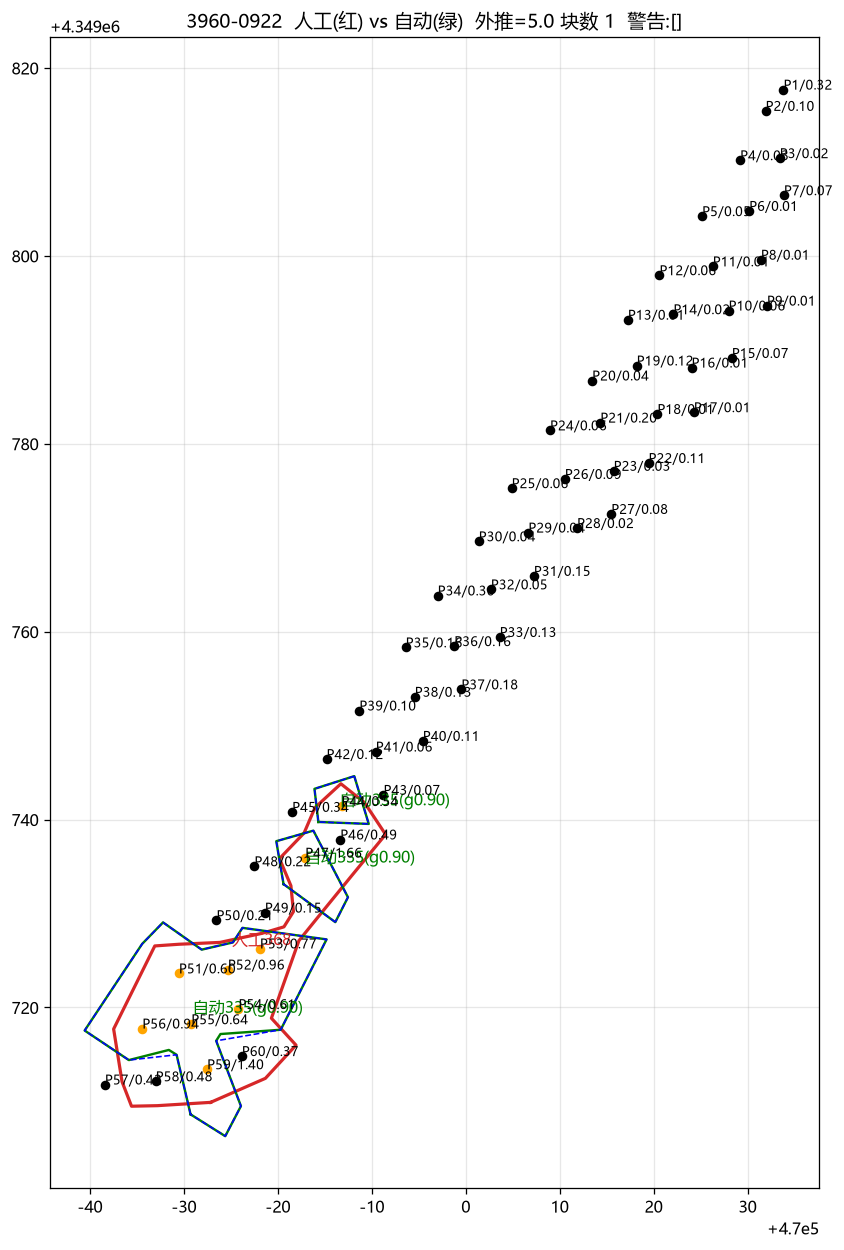
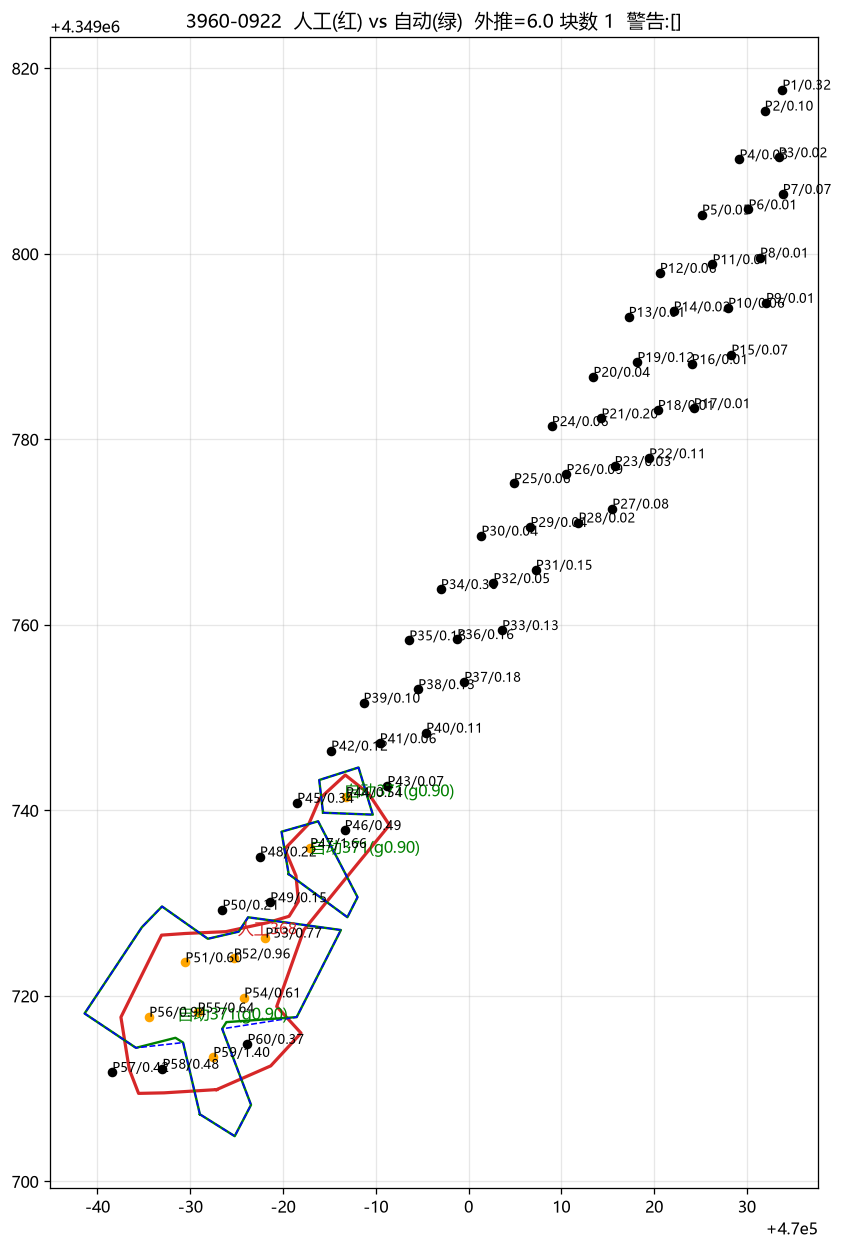
client/gui: 参数区修好——'存为该平台默认'原来写成 platforms[日期](不生效)，现在按平台/炮区分开写；参数补 seam_join_m/isolated_min_holes/ring_alpha_k + 精确模式轮廓文件框(带多选按钮)；probe: 3960 形状对账(0922/1007 面积与体积都对、低 IoU 是手画哑铃形与孔簇领地的固有差)

diff --git a/3DMine二次圈矿工具_初步原型/client/gui.py b/3DMine二次圈矿工具_初步原型/client/gui.py
@@ -86,22 +86,36 @@ class App:
         tk.Button(row3, text="浏览...", command=self.browse_out).pack(side="left", padx=4)
 
         # ---- 参数区（按平台可覆盖，存 圈矿参数.json）----
-        pf = tk.LabelFrame(root, text="参数（留空=用默认；改完点“存为当前平台”）",
+        pf = tk.LabelFrame(root, text="参数（留空=用默认；改完点“存为该平台默认”或“存为该炮区”）",
                            padx=10, pady=6)
         pf.pack(fill="x", padx=10, pady=(0, 4))
         self.var_p = {}
-        for i, (key, label) in enumerate((("extrude_m", "外推(m)"),
-                                          ("zone_link_m", "连接半径(m)"),
-                                          ("min_fragment_m2", "最小块段(m²)"),
-                                          ("merge_gap_m", "接综合图(m)"))):
-            tk.Label(pf, text=label).grid(row=0, column=i * 2, sticky="e", padx=(6, 2))
+        NUMS = (("extrude_m", "外推(m)"), ("zone_link_m", "连接半径(m)"),
+                ("min_fragment_m2", "最小块段(m²)"), ("merge_gap_m", "接综合图(m)"),
+                ("seam_join_m", "贴合综合图(m)"), ("isolated_min_holes", "孤立组最少孔数"),
+                ("ring_alpha_k", "外轮廓兜底k"))
+        for i, (key, label) in enumerate(NUMS):
+            r, c = divmod(i, 4)
+            tk.Label(pf, text=label).grid(row=r * 2, column=c * 2, sticky="e", padx=(6, 2))
             v = tk.StringVar()
-            tk.Entry(pf, textvariable=v, width=7).grid(row=0, column=i * 2 + 1, sticky="w")
+            tk.Entry(pf, textvariable=v, width=7).grid(row=r * 2, column=c * 2 + 1, sticky="w")
             self.var_p[key] = v
-        tk.Button(pf, text="存为当前平台", command=self.save_params).grid(
+        tk.Label(pf, text="精确模式轮廓文件(.3ds，多个用分号隔开；填了就照人工画的矿界出图)",
+                 fg="#333").grid(row=4, column=0, columnspan=2, sticky="e", pady=(6, 0))
+        self.var_outline = tk.StringVar()
+        tk.Entry(pf, textvariable=self.var_outline).grid(
+            row=4, column=2, columnspan=6, sticky="we", pady=(6, 0))
+        tk.Button(pf, text="…", width=3,
+                  command=self.browse_outline).grid(row=4, column=8, padx=10)
+        tk.Button(pf, text="存为该平台默认", command=self.save_params).grid(
             row=0, column=8, padx=10)
-        tk.Label(pf, text="（外推 3.0 / 连接 15 / 最小块段 40 / 接图 8；1003 已单独设 2.5）",
-                 fg="#666").grid(row=1, column=0, columnspan=8, sticky="w", pady=(4, 0))
+        tk.Button(pf, text="存为该炮区", command=lambda: self.save_params(blast=True)).grid(
+            row=1, column=8, padx=10)
+        tk.Button(pf, text="刷新参数", command=self.refresh_params).grid(
+            row=2, column=8, padx=10)
+        tk.Label(pf, text="（默认 外推3.0 / 连接15 / 最小块段40 / 接图8 / 贴合0.5；"
+                          "1003 外推 2.5，各炮区另有个别覆盖）",
+                 fg="#666").grid(row=5, column=0, columnspan=8, sticky="w", pady=(4, 0))
 
         # ---- 按钮 ----
         btn = tk.Frame(root)
@@ -155,34 +169,62 @@ class App:
     def refresh_params(self):
         try:
             p = self._params_mod()
+            plat = self.var_platform.get().strip()
             date = self.var_date.get().strip() or ""
-            P = p.for_blast(date) if date else p.load()
+            if date and plat:
+                P = p.for_blast(date, platform=plat)
+            elif plat:
+                P = p.for_platform(plat)
+            else:
+                P = p.load()
             for k, v in self.var_p.items():
-                v.set("%g" % float(P.get(k, 0.0)))
+                val = P.get(k)
+                v.set("" if val is None else ("%g" % float(val)))
+            files = P.get("outline_files") or []
+            self.var_outline.set(";".join(str(x) for x in files))
         except Exception:
             pass
 
-    def save_params(self):
+    def save_params(self, blast: bool = False):
+        """把参数区写回 圈矿参数.json。
+
+        坑（2026-10-14 修）：原来一律写进 `platforms[<日期>]`（拿日期当平台号），
+        存完根本不生效（`for_blast` 查的是 `platforms[<平台号>]` 和 `blasts[<平台>-<日期>]`）。
+        现在：勾"存为该炮区"→ `blasts["<平台>-<日期>"]`；否则 → `platforms[<平台>]`；
+        没有平台号就写全局默认。
+        """
         try:
             p = self._params_mod()
             cfg = p.load()
+            plat = self.var_platform.get().strip()
             date = self.var_date.get().strip()
             vals = {}
             for k, v in self.var_p.items():
                 s = v.get().strip()
                 if s:
-                    vals[k] = float(s)
+                    vals[k] = (int(float(s)) if k == "isolated_min_holes"
+                               else float(s))
+            files = [x.strip() for x in self.var_outline.get().split(";") if x.strip()]
+            if files or self.var_outline.get().strip() != "":
+                vals["outline_files"] = files
             if not vals:
                 messagebox.showinfo("参数", "没有要保存的值。")
                 return
-            if date:
-                cfg.setdefault("platforms", {}).setdefault(date, {}).update(vals)
-                path = p.save(cfg)
-                messagebox.showinfo("参数", "已按平台 %s 保存到：\n%s" % (date, path))
+            if blast:
+                if not (plat and date):
+                    messagebox.showinfo("参数", "存为该炮区需要先填平台号和日期。")
+                    return
+                key = "%s-%s" % (plat, date)
+                cfg.setdefault("blasts", {}).setdefault(key, {}).update(vals)
+                where = "炮区 %s" % key
+            elif plat:
+                cfg.setdefault("platforms", {}).setdefault(plat, {}).update(vals)
+                where = "平台 %s" % plat
             else:
                 cfg.update(vals)
-                path = p.save(cfg)
-                messagebox.showinfo("参数", "已保存为全局默认：\n%s" % path)
+                where = "全局默认"
+            path = p.save(cfg)
+            messagebox.showinfo("参数", "已保存为%s：\n%s" % (where, path))
         except Exception as ex:
             messagebox.showerror("参数", "保存失败：%s" % ex)
 
@@ -216,6 +258,14 @@ class App:
             filetypes=[("DWG", "*.dwg"), ("所有文件", "*.*")])
         if f:
             self.var_comp.set(f)
+
+    def browse_outline(self):
+        """精确模式：挑人工从 3DMine 导出的矿界 .3ds（可多选，分号分隔）。"""
+        fs = filedialog.askopenfilenames(
+            title="选择人工导出的矿界 .3ds（可多选：左边界/与综合图边界/右边界/右上边界…）",
+            filetypes=[("3DMine 字符串", "*.3ds"), ("所有文件", "*.*")])
+        if fs:
+            self.var_outline.set(";".join(str(x) for x in fs))
 
     def browse_out(self):
         d = filedialog.askdirectory(title="选择输出目录")

diff --git a/Excel处理工具/src/daily_merge/report_xlsx.py b/Excel处理工具/src/daily_merge/report_xlsx.py
@@ -17,9 +17,10 @@ from typing import Any
 from openpyxl import load_workbook
 from openpyxl.formula.translate import Translator
 
-from .schema import KINDS, REPORT_TOTAL_TOKEN, REPORT_TYPE_COLUMN
+from .schema import (KINDS, REPORT_SUBTOTAL_TOKENS, REPORT_TOTAL_TOKEN,
+                     REPORT_TOTAL_TOKENS, REPORT_TYPE_COLUMN)
 
-__all__ = ["find_summary_block", "existing_titles", "merge_report"]
+__all__ = ["find_summary_block", "existing_titles", "check_totals", "merge_report"]
 
 _BLANK_SEPARATOR = 1
 
@@ -59,11 +60,12 @@ def find_summary_block(ws) -> tuple[int, int]:
         text = _text(row[0].value)
         if first is None and text:
             first = row[0].row
-        if text == REPORT_TOTAL_TOKEN:
+        if text in REPORT_TOTAL_TOKENS:
             total = row[0].row
             break
     if total is None:
-        raise ValueError("单日报告里没找到「%s」行，无法确定汇总块范围" % REPORT_TOTAL_TOKEN)
+        raise ValueError("单日报告里没找到「%s」行，无法确定汇总块范围"
+                         % "/".join(REPORT_TOTAL_TOKENS))
     if first is None:
         first = 1
     return first, total
@@ -77,6 +79,62 @@ def existing_titles(ws) -> list[str]:
         if isinstance(value, str) and "炮孔数据报告" in value:
             titles.append(_text(value))
     return titles
+
+
+# 合计行所在列：体积 / 重量 / 金属量（平均品位是推导列，不参与求和校验）
+_SUM_COLUMNS = ((3, "体积"), (4, "重量"), (6, "金属量"))
+
+
+def check_totals(src_path: str, tolerance: float = 0.05) -> dict:
+    """用文件里缓存的计算值，复核"合计 = 各明细行之和"。
+
+    只做比对并报告差异，绝不改动源数据 —— 源报告本身写错公式时，
+    这里会明确提示，避免错误被原样搬进总表。
+    """
+    wb = load_workbook(src_path, data_only=True)
+    try:
+        ws = wb[wb.sheetnames[0]]
+        try:
+            r1, r2 = find_summary_block(ws)
+        except ValueError as exc:
+            return {"checked": False, "reason": str(exc)}
+
+        sums = {name: 0.0 for _col, name in _SUM_COLUMNS}
+        details = 0
+        for r in range(r1 + 1, r2):
+            label = _text(ws.cell(r, 1).value)
+            if not label or label in REPORT_TOTAL_TOKENS or label in REPORT_SUBTOTAL_TOKENS:
+                continue
+            details += 1
+            for col, name in _SUM_COLUMNS:
+                value = ws.cell(r, col).value
+                if isinstance(value, (int, float)) and not isinstance(value, bool):
+                    sums[name] += float(value)
+
+        total = {}
+        for col, name in _SUM_COLUMNS:
+            value = ws.cell(r2, col).value
+            total[name] = float(value) if isinstance(value, (int, float)) and not isinstance(value, bool) else None
+
+        mismatches = []
+        for _col, name in _SUM_COLUMNS:
+            got = total[name]
+            if got is None:
+                continue
+            if abs(got - sums[name]) > tolerance:
+                mismatches.append({"column": name, "detail_sum": round(sums[name], 3),
+                                   "total": round(got, 3),
+                                   "diff": round(got - sums[name], 3)})
+        return {
+            "checked": True,
+            "detail_rows": details,
+            "total_label": _text(ws.cell(r2, 1).value),
+            "detail_sum": {k: round(v, 3) for k, v in sums.items()},
+            "total": {k: (round(v, 3) if v is not None else None) for k, v in total.items()},
+            "mismatches": mismatches,
+        }
+    finally:
+        wb.close()
 
 
 def _copy_style(src_cell, dst_cell) -> None:

diff --git a/Excel处理工具/src/daily_merge/pipeline.py b/Excel处理工具/src/daily_merge/pipeline.py
@@ -112,6 +112,13 @@ def run(options: DailyMergeOptions) -> dict:
             report["errors"][kind] = "%s" % exc
     report["preview"] = preview
 
+    # 单日报告的"合计 = 各明细之和"自检（只报告，不改源数据）
+    if plan.src.get(KIND_REPORT):
+        try:
+            report["totals_check"] = report_xlsx.check_totals(plan.src[KIND_REPORT])
+        except Exception as exc:  # noqa: BLE001
+            report["totals_check"] = {"checked": False, "reason": "%s" % exc}
+
     if options.dry_run:
         report["results"] = preview
         return report
@@ -162,6 +169,8 @@ def _mdb_holes(path: str) -> list[str]:
 def _report_blocks(path: str) -> tuple[int, list[str]]:
     from openpyxl import load_workbook
 
+    from .schema import REPORT_TOTAL_TOKENS
+
     wb = load_workbook(path, data_only=False, read_only=True)
     try:
         ws = wb[wb.sheetnames[0]]
@@ -171,7 +180,7 @@ def _report_blocks(path: str) -> tuple[int, list[str]]:
             if value is None:
                 continue
             text = str(value).strip()
-            if text == "合计":
+            if text in REPORT_TOTAL_TOKENS:
                 totals += 1
             elif "炮孔数据报告" in text:
                 titles.append(text)
@@ -276,6 +285,18 @@ def summarize(report: dict) -> list[str]:
     if info and "error" not in info:
         lines.append("[复核] %s：%d 个日报告块，%d 个合计行"
                      % (KIND_LABELS[KIND_REPORT], info["blocks"], info["total_rows"]))
+
+    check = report.get("totals_check") or {}
+    if check.get("checked"):
+        if check["mismatches"]:
+            for item in check["mismatches"]:
+                lines.append("[警告] 单日报告的「%s」合计与各明细之和差 %s（明细 %s / 合计 %s）"
+                             "—— 源报告本身公式疑有误，已按原样并入，请人工核对。"
+                             % (item["column"], item["diff"], item["detail_sum"], item["total"]))
+        else:
+            lines.append("[校验] 单日报告合计与各明细之和一致 ✓")
+    elif check:
+        lines.append("[提示] 单日报告合计未校验：%s" % check.get("reason", ""))
 
     for warn in report.get("warnings", []):
         lines.append("[提示] %s" % warn)

diff --git a/3DMine二次圈矿工具_初步原型/_probe/_shape_check.py b/3DMine二次圈矿工具_初步原型/_probe/_shape_check.py
@@ -1,0 +1,33 @@
+# -*- coding: utf-8 -*-
+"""看 3960 各炮区：自动矿界 vs 人工图 —— 面积比、形心偏移、IoU（判断是不是"整体偏移"型误差）。"""
+import sys, json
+from pathlib import Path
+ROOT = Path(".").resolve()
+sys.path.insert(0, str(ROOT/"core")); sys.path.insert(0, str(ROOT/"_probe"))
+from shapely.geometry import Polygon
+from shapely.ops import unary_union
+from oreblocks import load_holes_xls
+from pipeline import run_blast
+from composite import load_composite_blocks
+import params as _params, baseline as _bl
+from run_batch import parse_folder
+plat="3960"; pdir=ROOT.parent/"北部山头3960平台2026"
+comp=load_composite_blocks(sorted(pdir.glob("*综合*.dwg"))[0])
+print("%-11s %8s %8s %7s %8s %8s" % ("炮区","自动面积","人工面积","面积比","形心偏移m","IoU"))
+for folder in sorted(d for d in (pdir/"7、单日数据").iterdir() if d.is_dir()):
+    xls=sorted(folder.glob("1、*.xls"))
+    if not xls: continue
+    date=parse_folder(folder.name)[1]
+    jf=_bl.scan_path(plat,date)
+    if not jf.exists(): continue
+    holes=load_holes_xls(xls[0]); allh=list(holes.values())
+    j=json.loads(jf.read_text(encoding="utf-8"))
+    mb=[Polygon(p["pts"]).buffer(0) for p in j["polylines"] if p["layer"] not in {"爆区方格网","钻孔","点","线条","孔口文字"} and len(p["pts"])>=3 and _bl.is_block(Polygon(p["pts"]).buffer(0),p["layer"],allh)]
+    man=unary_union(mb)
+    res=run_blast(holes, allh, _params.for_blast(date,platform=plat), comp, blast=date)
+    if not res["rings"]: continue
+    rg=res["rings"][0]
+    for rr in res["rings"][1:]: rg=rg.union(rr)
+    c1=rg.centroid; c2=man.centroid
+    d=((c1.x-c2.x)**2+(c1.y-c2.y)**2)**0.5
+    print("%-11s %8.1f %8.1f %7.2f %8.2f %8.3f" % (date, rg.area, man.area, rg.area/man.area, d, rg.intersection(man).area/rg.union(man).area))

diff --git a/Excel处理工具/src/daily_merge/schema.py b/Excel处理工具/src/daily_merge/schema.py
@@ -14,7 +14,8 @@ __all__ = [
     "KIND_XLS", "KIND_MDB", "KIND_REPORT", "KINDS",
     "KIND_LABELS",
     "DB_TABLES", "DB_KEY_COLUMNS", "DB_TEXT_COLUMNS",
-    "REPORT_TOTAL_TOKEN", "REPORT_TYPE_COLUMN",
+    "REPORT_TOTAL_TOKEN", "REPORT_TOTAL_TOKENS", "REPORT_SUBTOTAL_TOKENS",
+    "REPORT_TYPE_COLUMN",
     "DAY_PATTERNS", "MASTER_PATTERNS", "SKIP_PREFIXES",
     "normalize_key", "key_of_row", "guess_day_code", "day_code_from_holes",
 ]
@@ -52,7 +53,9 @@ DB_TEXT_COLUMNS = {"工程号", "轨迹类型"}
 # --------------------------------------------------------------------------
 # 炮孔数据报告
 # --------------------------------------------------------------------------
-REPORT_TOTAL_TOKEN = "合计"      # 汇总块的结束行
+REPORT_TOTAL_TOKEN = "合计"      # 汇总块的结束行（新版报告用"合计"）
+REPORT_TOTAL_TOKENS = ("合计", "总计")   # 老版报告用"总计"，两种都当块尾
+REPORT_SUBTOTAL_TOKENS = ("小计",)
 REPORT_TYPE_COLUMN = "类型"      # 表头首列的标志文本
 
 # --------------------------------------------------------------------------

diff --git a/_probe/tail3960.py b/_probe/tail3960.py
@@ -1,0 +1,11 @@
+# -*- coding: utf-8 -*-
+import sys; sys.stdout.reconfigure(encoding='utf-8')
+from openpyxl import load_workbook
+p = r"D:/WK/N CRT/_probe/sb3960/北部山头3960平台2026/3、北部山头3960平台炮孔数据报告-2026综合.xlsx"
+wb = load_workbook(p); ws = wb.active
+print("dims", ws.dimensions, "merged", [str(m) for m in ws.merged_cells.ranges][:12])
+rows = list(ws.iter_rows(values_only=True))
+print("总行数", len(rows))
+for i in range(len(rows)-14, len(rows)):
+    print("  r%03d|" % (i+1), " | ".join(repr(v) for v in rows[i][:6]))
+wb.close()

diff --git a/3DMine二次圈矿工具_初步原型/口径确认记录.md b/3DMine二次圈矿工具_初步原型/口径确认记录.md
@@ -312,3 +312,31 @@ IoU 0.757（带自检修补）；另外试了"矿孔凸包外扩""凹包外扩""
 **当前验收**：3940 五个炮区 IoU 0.621~0.953、体积 −1.3%~+6.1%；
 3960 十二个炮区 IoU 0.532~0.925、**体积 −2.9%~+6.8%**，块数全部与人工图一致。
 （严格档：3940 体积 −5.3%~+1.4%、3960 −13.6%~+6.8%。）
+
+## K. 2026-10-14 GUI 参数区修好 + 剩下那点 IoU 差距来自哪儿
+
+**GUI（`client/gui.py`）两个问题**：
+
+1. **"存为当前平台"存错地方**：原来一律写 `platforms[<日期>]`（拿日期当平台号），
+   存完根本不生效（`for_blast` 查的是 `platforms[<平台号>]` / `blasts[<平台>-<日期>]`）。
+   现在两个按钮：**存为该平台默认** → `platforms[<平台号>]`；**存为该炮区** →
+   `blasts["<平台>-<日期>"]`；没填平台号才写全局默认。
+2. **参数区补齐**：加了 `seam_join_m`（贴合综合图）、`isolated_min_holes`（孤立组最少孔数）、
+   `ring_alpha_k`（外轮廓兜底 k），以及**精确模式的轮廓文件框**（.3ds，多个用分号隔开，
+   旁边有"…"按钮可多选文件）。刷新时按"平台+日期"显示当前生效值。
+   （已用无窗口的 Tk 实例跑过：能建、能刷新、能按两种目标正确写回。）
+
+**剩下那点 IoU 差距（3960）来自哪儿**——`_probe/_shape_check.py`：
+
+| 炮区 | 自动面积/人工面积 | 形心偏移 | IoU | 结论 |
+|---|---|---|---|---|
+| 0902 | 1.01 | 0.17 m | 0.925 | 基本重合 |
+| 0914 | 1.07 | 0.95 m | 0.862 | 轻微外扩 |
+| 0908 | 1.05 | 0.70 m | 0.786 | 轻微外扩 |
+| 1008 | 1.00 | 1.53 m | 0.796 | 面积对、形状不同 |
+| 1009 | 1.03 | 3.21 m | 0.779 | 局部偏移 |
+| 0825 / 0830 / 0904 | 1.04 / 1.03 / 1.08 | 0.30 / 1.61 / 3.51 m | 0.710 / 0.707 / 0.656 | 局部偏移 |
+| **0922 / 1007** | **1.02 / 1.00** | 1.13 / 1.65 m | **0.532 / 0.540** | **面积（＝体积）对得很准，但人工是手画的"哑铃形"块**（两瓣中间收腰），我们的"孔簇领地"是连成一片的多边形 → 体积差只有 +0.2% / −0.5%，形状 IoU 天然上不去 |
+
+结论：这几炮**体积（人工报告关心的量）已经对上**，IoU 低是"手画不规则形状 vs
+参数化领地"的固有差；要做到形状一致就走精确模式（K 节第 2 条那个框）。
